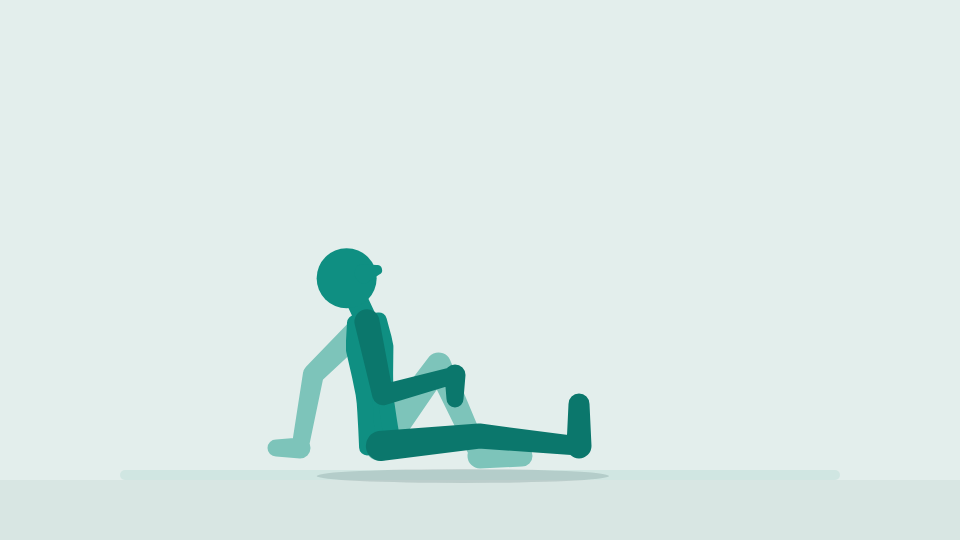
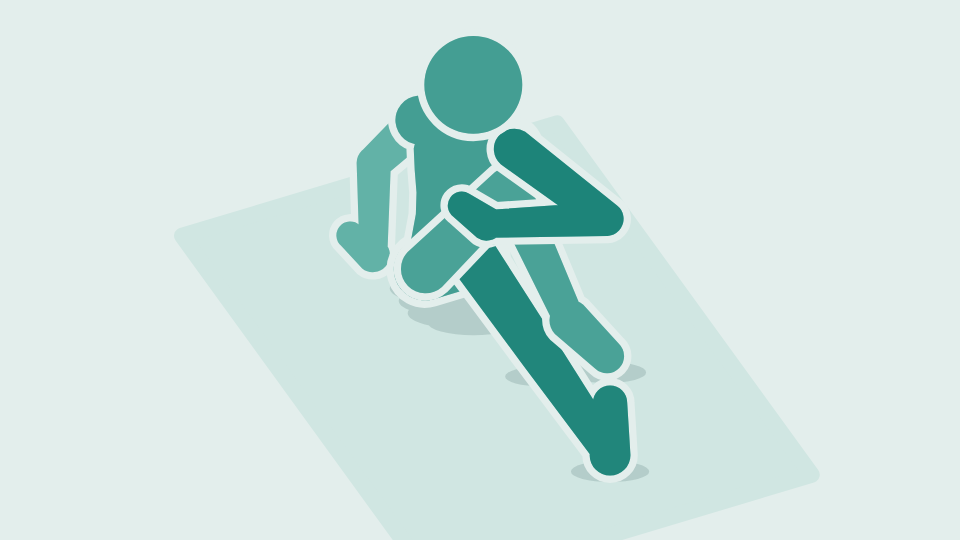
feat: add Half Spinal Twist exercise with 3D animation and update related components

Changed region(s): [[0.2812, 0.0593, 0.6875, 0.9185]]

diff --git a/src/lib/rig3d.test.ts b/src/lib/rig3d.test.ts
@@ -53,6 +53,7 @@ import {
   SEATED_STRADDLE_SIDE_BEND_3D,
   SEATED_SHOULDER_EXTENSION_3D,
   HALF_KNEELING_FROG_STRETCH_3D,
+  HALF_SPINAL_TWIST_3D,
   NECK_SIDE_STRETCH_3D,
   CROSS_BODY_SHOULDER_STRETCH_3D,
   OVERHEAD_TRICEPS_STRETCH_3D,
@@ -528,6 +529,7 @@ describe('3D clips', () => {
       'downward-facing-dog-to-cobra',
       'finger-tendon-glides',
       'cuban-rotation',
+      'half-spinal-twist',
       'warmup-marching',
     ]));
   });
@@ -1278,6 +1280,60 @@ describe('3D clips', () => {
     // Nothing ever changes places, and the face, turned to the camera, keeps its nose.
     expect(new Set(drawOrders(clip))).toEqual(new Set(['leftLeg leftArm torso head rightLeg rightArm']));
     for (let t = 0; t <= durationOf(clip); t += 10) expect(frameAt(clip, view, t).slots.find((slot) => slot.part === 'head')!.d.split('Z').length).toBeGreaterThan(2);
+  });
+
+  it('turns the chest toward the right knee, the left arm hugging it and the right foot planted outside the left knee, in the half spinal twist', () => {
+    const clip = HALF_SPINAL_TWIST_3D;
+    const skeletons = samples(clip).map(solvePose);
+    const start = skeletons[0];
+    /** The closest two bones come in the room. */
+    const between = (a: readonly Vec3[], b: readonly Vec3[]) => {
+      let gap = Infinity;
+      for (let i = 0; i <= 20; i++) {
+        for (let j = 0; j <= 20; j++) {
+          const p = a[0].map((v, k) => v + ((a[1][k] - v) * i) / 20);
+          const q = b[0].map((v, k) => v + ((b[1][k] - v) * j) / 20);
+          gap = Math.min(gap, Math.hypot(p[0] - q[0], p[1] - q[1], p[2] - q[2]));
+        }
+      }
+      return gap;
+    };
+    for (const { spine, rightLeg, leftLeg, leftArm, rightArm } of skeletons) {
+      // Sitting: the hips stay put on the floor, the left leg long along it and the right foot
+      // planted across it, outside the left knee, with the right knee up.
+      expect(distance(spine[0], start.spine[0])).toBeCloseTo(0);
+      expect(distance(rightLeg[2], start.rightLeg[2])).toBeCloseTo(0);
+      expect(angleAt(leftLeg[0], leftLeg[1], leftLeg[2])).toBeCloseTo(180);
+      expect(leftLeg[2][1]).toBeCloseTo(13, 0);
+      expect(rightLeg[2][2]).toBeLessThan(leftLeg[1][2] - 25);
+      expect(Math.abs(rightLeg[2][0] - leftLeg[1][0])).toBeLessThan(35);
+      expect(rightLeg[1][1]).toBeGreaterThan(90);
+      // The hands hold still: the left hugging the right knee, the right on the floor behind the hips.
+      expect(distance(leftArm[2], start.leftArm[2])).toBeCloseTo(0);
+      expect(distance(rightArm[2], start.rightArm[2])).toBeCloseTo(0);
+      expect(rightArm[2][0]).toBeLessThan(spine[0][0] - 30);
+      // The hug: the forearm across the front of the shin, snug against it but never through it, the
+      // elbow out to the left of the knee and the hand past its right side.
+      expect(between(leftArm.slice(1, 3), rightLeg.slice(1, 3))).toBeGreaterThan(20);
+      expect(between(leftArm.slice(1, 3), rightLeg.slice(1, 3))).toBeLessThan(26);
+      expect(between(leftArm.slice(2, 4), rightLeg.slice(0, 2))).toBeGreaterThan(22);
+      expect(between(leftArm.slice(0, 2), rightLeg.slice(0, 2))).toBeGreaterThan(22);
+      expect(leftArm[1][2]).toBeLessThan(rightLeg[1][2] - 25);
+      expect(leftArm[2][2]).toBeGreaterThan(rightLeg[1][2] + 15);
+    }
+    // The chest turns toward the right knee, to the right, and the head turns further, looking back
+    // over the right shoulder.
+    const turned = solvePose(clip.keyframes[clip.stillFrame].pose);
+    const shoulders = ({ rightArm, leftArm }: Skeleton) => (Math.atan2(rightArm[0][0] - leftArm[0][0], rightArm[0][2] - leftArm[0][2]) * 180) / Math.PI;
+    const facing = ({ facing }: Skeleton) => (Math.atan2(facing[2], facing[0]) * 180) / Math.PI;
+    expect(shoulders(start) - shoulders(turned)).toBeGreaterThan(35);
+    expect(facing(turned) - facing(start)).toBeGreaterThan(70);
+    expect(longestHold(clip)).toBeGreaterThanOrEqual(3000);
+    // Nothing ever changes places: the propping arm stays behind the body. From well above, the face
+    // never shows a nose.
+    expect(new Set(drawOrders(clip))).toEqual(new Set(['rightArm torso leftLeg rightLeg leftArm head']));
+    const view = viewOf(clip.camera);
+    for (let t = 0; t <= durationOf(clip); t += 10) expect(frameAt(clip, view, t).slots.find((slot) => slot.part === 'head')!.d.split('Z').length).toBe(2);
   });
 
   it('sits back from all fours onto the heels, hands, knees and feet planted, forehead to the floor, in prayer pose', () => {

diff --git a/src/data/exercise-animations-3d.ts b/src/data/exercise-animations-3d.ts
@@ -5075,3 +5075,75 @@ export const CUBAN_ROTATION_3D: Clip3D = {
     { ms: 1200, pose: CUBAN_HANGING },
   ],
 };
+
+// --- Half spinal twist: the left leg long, the right foot planted outside the left knee; the left arm hugs the right knee and the chest turns toward it ---
+
+/** The right foot is planted flat on the floor across the left leg, beside the left knee and outside it. */
+const TWIST_FOOT: Vec3 = [72, ANKLE_Y, -48];
+/** The right knee points up at the ceiling, crossing over toward the left. */
+const TWIST_KNEE_POLE: Vec3 = [0.2, 1, -0.2];
+/** The right hand rests on the floor behind the right hip, the fingers pointing back, to sit tall against. */
+const TWIST_PROP: Vec3 = [-36, WRIST_Y, 34];
+/** How far the spine and then the neck turn toward the right knee, looking back over the right shoulder. */
+const TWIST = { spine: -42, neck: -38 };
+/** How far the body tips forward from the hips, the hugging arm drawing the chest toward the knee. */
+const TWIST_LEAN = 12;
+
+const TWIST_SITTING: Pose3 = {
+  pelvis: [0, SIT_PELVIS_Y, 0],
+  lean: TWIST_LEAN,
+  // The straight left leg lies along the floor, the toes up, as in sit and reach.
+  leftLeg: { flex: 90 - SIT_LEG_DROP + TWIST_LEAN, ankle: SIT_LEG_DROP },
+  pins: { rightFoot: { at: TWIST_FOOT, toward: [1, 0, -0.15], pole: TWIST_KNEE_POLE } },
+};
+/**
+ * The left arm hugs the right knee just below it: the elbow out to the left of the knee, the
+ * forearm straight across the front of the shin, snug against it, and the hand past its right side,
+ * the fingers pointing back round it. The forearm is longer than the knee is wide, so the elbow and
+ * the hand stand well out either side. A hand drawn in round the back of the knee took the straight
+ * forearm through it.
+ */
+const TWIST_HUG_AT = { elbow: [24, 0, -50] as Vec3, hand: [22, -4, 25] as Vec3 };
+const TWIST_HUG: Pin = (() => {
+  const body = solvePose(TWIST_SITTING);
+  const knee = body.rightLeg[1];
+  const elbow: Vec3 = [knee[0] + TWIST_HUG_AT.elbow[0], knee[1] + TWIST_HUG_AT.elbow[1], knee[2] + TWIST_HUG_AT.elbow[2]];
+  const hand: Vec3 = [knee[0] + TWIST_HUG_AT.hand[0], knee[1] + TWIST_HUG_AT.hand[1], knee[2] + TWIST_HUG_AT.hand[2]];
+  return { ...pinVia(body.leftArm[0], elbow, toward(elbow, hand, SKELETON.forearm)), toward: [-1, 0, 0.3] };
+})();
+
+/** Sitting tall, turned this far toward the right knee (0 facing ahead, 1 the full twist). */
+const halfSpinalTwist = (t: number): Pose3 => ({
+  ...TWIST_SITTING,
+  spine: { twist: TWIST.spine * t },
+  neck: { twist: TWIST.neck * t },
+  pins: {
+    ...TWIST_SITTING.pins,
+    leftHand: TWIST_HUG,
+    rightHand: { at: TWIST_PROP, toward: [-1, 0, 0.2], pole: [-1, 0.2, 0.3] },
+  },
+});
+const TWIST_AHEAD = halfSpinalTwist(0);
+const TWIST_TURNED = halfSpinalTwist(1);
+
+export const HALF_SPINAL_TWIST_3D: Clip3D = {
+  view: '3d',
+  // From the front and to the right, well above: the chest turns toward the camera, the shoulders
+  // swinging round over the hips, and the hug, the planted foot and the hand behind all show. Lower
+  // down, the right foot planted beyond the straight leg overlapped it on screen, and the nose came
+  // and went as the face turned; from up here the face is never turned enough to show one.
+  camera: { yaw: 65, pitch: 40 },
+  highlight: ['torso'],
+  // The right hand props the body up on the floor behind the hips, so the arm is behind the body
+  // all the way. By depth its shoulder end came over the torso until the chest turned toward the camera.
+  behind: [['rightArm', 'torso']],
+  // Turned.
+  stillFrame: 1,
+  keyframes: [
+    { ms: 0, pose: TWIST_AHEAD },
+    { ms: 2000, pose: TWIST_TURNED },
+    { ms: 3000, pose: TWIST_TURNED },
+    { ms: 2000, pose: TWIST_AHEAD },
+    { ms: 800, pose: TWIST_AHEAD },
+  ],
+};

diff --git a/src/data/exercises.ts b/src/data/exercises.ts
@@ -28,6 +28,7 @@ import {
   FROG_ROCKS_3D,
   FROG_STRETCH_3D,
   HALF_KNEELING_FROG_STRETCH_3D,
+  HALF_SPINAL_TWIST_3D,
   HORSE_STANCE_3D,
   KNEELING_WRIST_STRETCH_3D,
   KNIGHT_STRETCH_3D,
@@ -67,7 +68,6 @@ import {
 } from './exercise-animations-3d';
 
 import {
-  HALF_SPINAL_TWIST,
   HALF_TWISTED_LIZARD,
   INCHWORM,
   LYING_EXTERNAL_ROTATION_STRETCH,
@@ -318,7 +318,7 @@ const ALL_EXERCISES: Exercise[] = [
       'Twist toward the bent knee and hold, then switch sides',
     ],
     photo: require('@/assets/images/exercises/half-spinal-twist.png'),
-    animation: HALF_SPINAL_TWIST,
+    animation: HALF_SPINAL_TWIST_3D,
     twoSided: true,
   },
   {

diff --git a/README.md b/README.md
@@ -195,16 +195,16 @@ Moved to the new engine:
 | Downward facing dog to cobra | Library | `DOWNWARD_FACING_DOG_TO_COBRA_3D` |
 | Finger tendon glides | Library | `FINGER_TENDON_GLIDES_3D` |
 | Cuban rotation | Library | `CUBAN_ROTATION_3D` |
+| Half spinal twist | Library | `HALF_SPINAL_TWIST_3D` |
 
 Still on the old engine (clip names in `exercise-animations.ts`). Where a clip needs something the new engine doesn't have yet, it's noted.
 
-All ten flexibility tests are on the new engine. The last six to move (knee to wall, the two seated hip rotations, sit and reach, knee to chest and straight leg raise) haven't been checked on a device yet, so their old clips are still in `exercise-animations.ts`; delete them once they have. The same goes for the three 90 to 90 clips in the library (`NINETY_TO_NINETY_ROTATIONS` has to stay either way: windshield wipers with knee lift is built on it), and for the two pancake clips (`PANCAKE_UP` has to stay either way: the seated straddle side bend is built on it), and for the active straight leg raise, ankle mobilization, the behind the back chest opener, back lying reverse pigeon, belly down foot splay, the five squats (bottom squat, bottom squat rotation, squat to stand, Cossack squat and resting Cossack squat), Blackburn, butterfly, cobra to prayer, downward facing dog, prayer pose, puppy pose, lying knee hug, lying hamstring stretch, seated pike stretch, three legged downward facing dog, standing forward fold, kneeling wrist stretch, floor angels, reverse tabletop, knight stretch, horse stance, the lying windshield wiper hold, frog stretch, frog rocks, knight to hamstring, couch stretch, pyramid stretch, wrist rocks, elephant walk, the seated straddle side bend, seated shoulder extension, the half kneeling frog stretch, the neck side stretch, the cross-body shoulder stretch, the overhead triceps stretch, cow face arms, the pigeon stretch, hip circles, the Breakdancer, scap mobilization, the lizard pose, the figure four stretch, the two manual forearm stretches, downward facing dog to cobra, Cuban rotation and finger tendon glides (`FINGER_TENDON_GLIDES` is still checked by `figure-rig.test.ts` and `exercise-video.test.tsx` until then).
+All ten flexibility tests are on the new engine. The last six to move (knee to wall, the two seated hip rotations, sit and reach, knee to chest and straight leg raise) haven't been checked on a device yet, so their old clips are still in `exercise-animations.ts`; delete them once they have. The same goes for the three 90 to 90 clips in the library (`NINETY_TO_NINETY_ROTATIONS` has to stay either way: windshield wipers with knee lift is built on it), and for the two pancake clips (`PANCAKE_UP` has to stay either way: the seated straddle side bend is built on it), and for the active straight leg raise, ankle mobilization, the behind the back chest opener, back lying reverse pigeon, belly down foot splay, the five squats (bottom squat, bottom squat rotation, squat to stand, Cossack squat and resting Cossack squat), Blackburn, butterfly, cobra to prayer, downward facing dog, prayer pose, puppy pose, lying knee hug, lying hamstring stretch, seated pike stretch, three legged downward facing dog, standing forward fold, kneeling wrist stretch, floor angels, reverse tabletop, knight stretch, horse stance, the lying windshield wiper hold, frog stretch, frog rocks, knight to hamstring, couch stretch, pyramid stretch, wrist rocks, elephant walk, the seated straddle side bend, seated shoulder extension, the half kneeling frog stretch, the neck side stretch, the cross-body shoulder stretch, the overhead triceps stretch, cow face arms, the pigeon stretch, hip circles, the Breakdancer, scap mobilization, the lizard pose, the figure four stretch, the two manual forearm stretches, downward facing dog to cobra, Cuban rotation, the half spinal twist and finger tendon glides (`FINGER_TENDON_GLIDES` is still checked by `figure-rig.test.ts` and `exercise-video.test.tsx` until then).
 
 Library (`src/data/exercises.ts`):
 
 | Exercise | Clip | Needs |
 |---|---|---|
-| Half spinal twist | `HALF_SPINAL_TWIST` | |
 | Half-twisted lizard | `HALF_TWISTED_LIZARD` | |
 | Inchworm | `INCHWORM` | a travelling camera |
 | Lying external rotation stretch | `LYING_EXTERNAL_ROTATION_STRETCH` | dumbbell |
